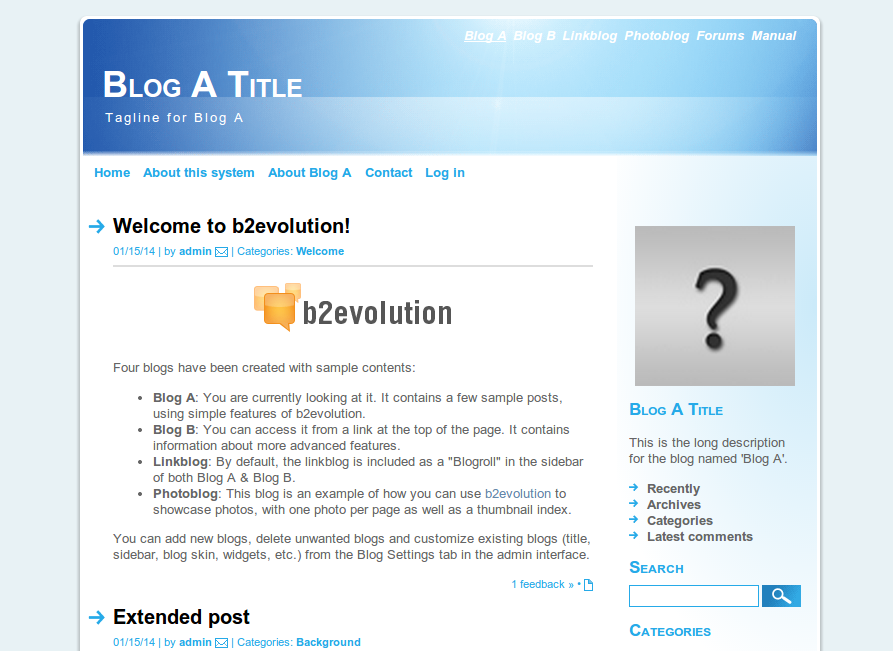
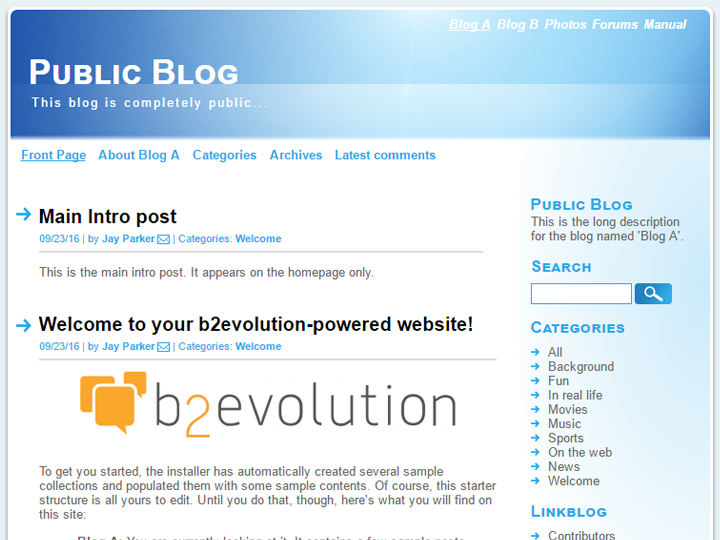
- Tags and feedback removed from intro posts - Fixed Intro posts layout - New skinshot

diff --git a/style.css b/style.css
@@ -215,6 +215,15 @@ div.action_messages {
 	background: url(img/icons.png) no-repeat 5px -36px;
 	/* border: 1px solid #78a; */
 }
+#wrapper div.featured_post {
+	border: none;
+}
+.featured_post.bPostpublished {
+	padding-left: 30px;
+}
+div.featured_post.bPostpublished h2 {
+	margin-top: -10px;
+}
 .bSmallHead {
 	padding: 5px 0 7px;
 	font-size: 84%;

diff --git a/_item_block.inc.php b/_item_block.inc.php
@@ -81,16 +81,21 @@ $params = array_merge( array(
 	?>
 
 	<?php
+		if( ! $Item->is_intro() ) // Do NOT apply tags, comments and feedback on intro posts
+		{
 		// List all tags attached to this post:
 		$Item->tags( array(
 				'before' =>         '<div class="">'.T_('Tags').': ',
 				'after' =>          '</div>',
 				'separator' =>      ', ',
 			) );
+		}
 	?>
 
 	<div class="bSmallPrint">
 		<?php
+			if( ! $Item->is_intro() ) // Do NOT apply tags, comments and feedback on intro posts
+			{
 			// Link to comments, trackbacks, etc.:
 			$Item->feedback_link( array(
 							'type' => 'feedbacks',
@@ -102,6 +107,7 @@ $params = array_merge( array(
 							'link_title' => '#',
 							'use_popup' => false,
 						) );
+			}
 
 			$Item->edit_link( array( // Link to backoffice for editing
 					'before'    => '',

diff --git a/_skin.class.php b/_skin.class.php
@@ -19,6 +19,7 @@ if( !defined('EVO_MAIN_INIT') ) die( 'Please, do not access this page directly.'
  */
 class miami_blue_Skin extends Skin
 {
+	var $version = '1.1.1';
   	
   /**
 	 * Get default name for the skin.

diff --git a/README.md b/README.md
@@ -2,6 +2,14 @@
 
 <img src="skinshot.png"/>
 
+### Update Log
+
+#### v1.1.1
+
+- Tags and feedback removed from intro posts
+- Fixed Intro posts layout
+- New skinshot
+
 #### v1.1.
 
 - Sitewide_header included for easier multi-blogging experience
